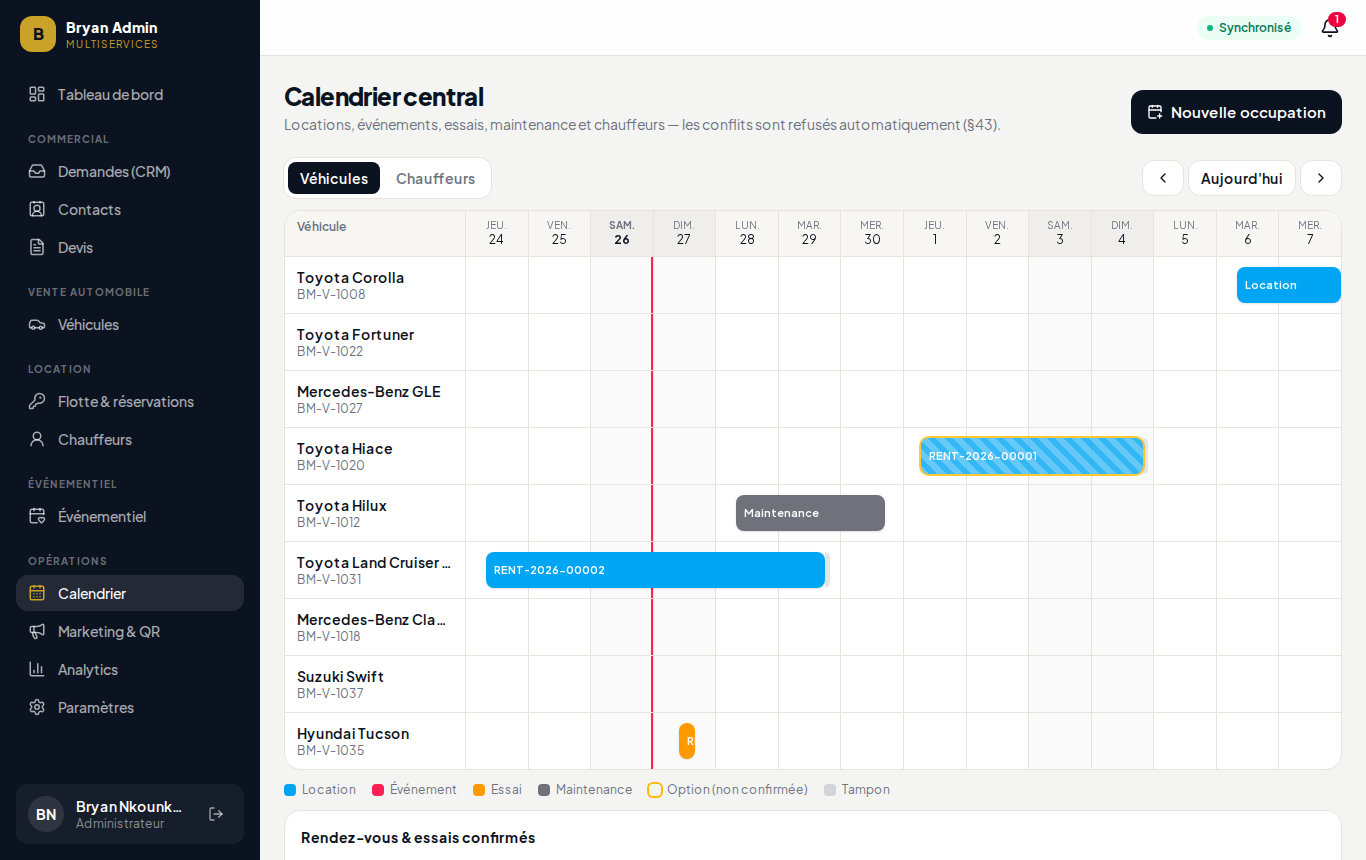
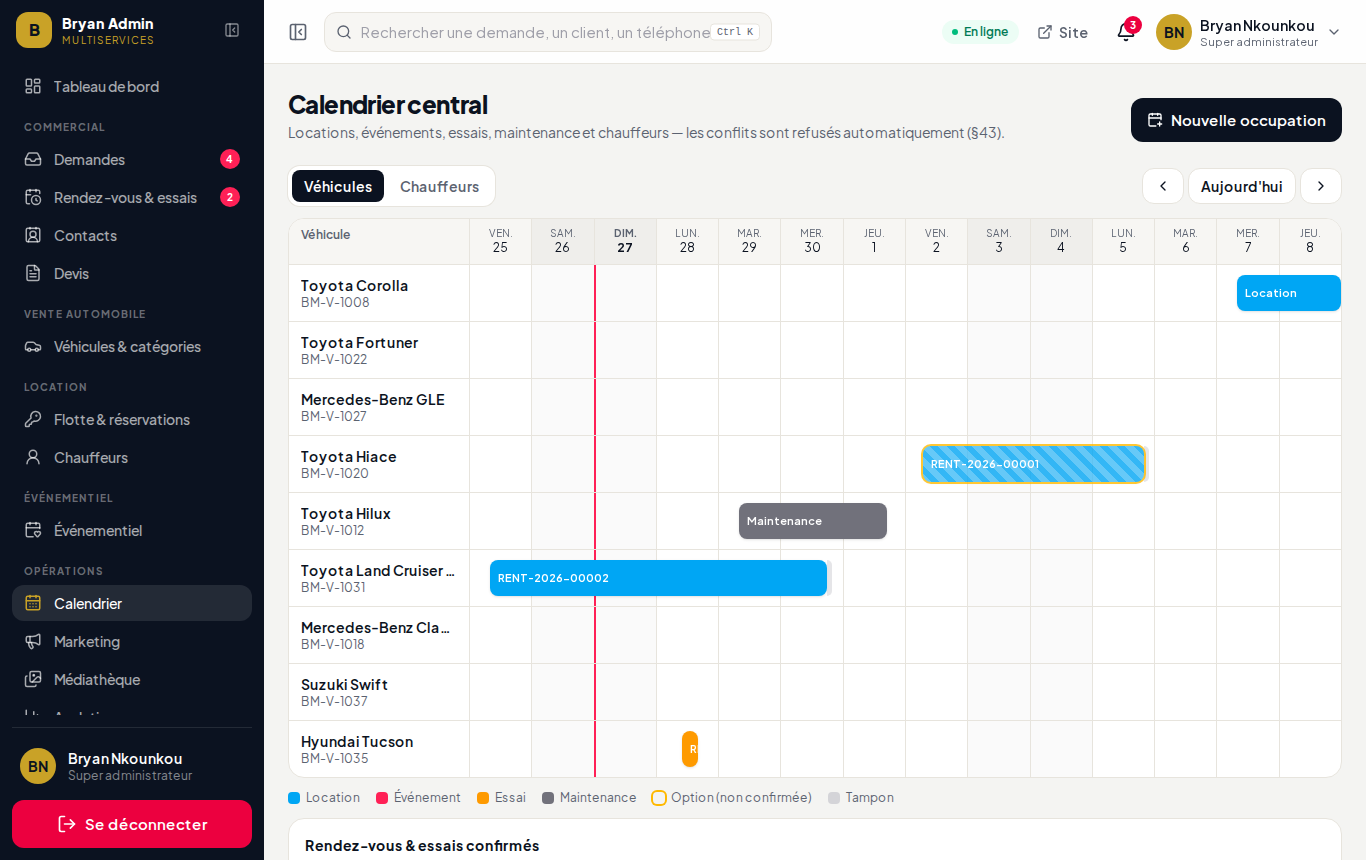
fix: badge de disponibilité location, RDV de démo, dates des tests selon le fuseau de Brazzaville, captures à jour
Claude-Session: https://claude.ai/code/session_012bgrZVfZnkb1jXsGv32C79

diff --git a/lib/db/mock-backend.ts b/lib/db/mock-backend.ts
@@ -139,7 +139,7 @@ export class BusinessError extends Error {
   }
 }
 
-const SEED_VERSION = "2";
+const SEED_VERSION = "3";
 const uid = () => crypto.randomUUID();
 const nowIso = () => new Date().toISOString();
 
@@ -306,6 +306,8 @@ async function seedCrm() {
     { type: "sale", contact: 9, minutesAgo: 60 * 150, vehicleId: "veh-pajero-2019", status: "completed", message: "Vente conclue." },
     { type: "trade_in", contact: 4, minutesAgo: 60 * 26 - 5, status: "to_contact", details: { brand: "Toyota", model: "RAV4", year: 2017, mileageKm: 112000, condition: "Bon état" }, message: "Je souhaite échanger mon véhicule." },
     { type: "event", contact: 9, minutesAgo: 60 * 200, status: "completed", message: "Anniversaire 50 ans." },
+    { type: "appointment", contact: 5, minutesAgo: 95, vehicleId: "veh-gle-2022", status: "new", details: { appointmentKind: "visit", preferredSlot: "Samedi matin" }, message: "Je souhaite voir le GLE avec mon épouse." },
+    { type: "test_drive", contact: 6, minutesAgo: 60 * 3, vehicleId: "veh-rav4-2022", status: "to_contact", details: { preferredSlot: "En semaine, l'après-midi" } },
   ];
 
   const assign: Partial<Record<RequestType, string>> = catalog.settings.defaultAssignees;
@@ -353,6 +355,10 @@ async function seedCrm() {
     { id: "ev-3", requestId: "r-13", eventTypeId: "et-anniversaire", title: "50 ans Prisca", eventDate: atDay(-10).slice(0, 10), city: "Pointe-Noire", guestsCount: 90, serviceIds: ["sv-deco", "sv-animation", "sv-sono"], createdAt: ago(60 * 200) },
   ]);
 
+  await mockDb.appointments.bulkAdd([
+    { id: uid(), requestId: "r-14", kind: "visit", status: "requested", vehicleId: "veh-gle-2022", preferredSlot: "Samedi matin", createdAt: ago(95) },
+    { id: uid(), requestId: "r-15", kind: "test_drive", status: "requested", vehicleId: "veh-rav4-2022", preferredSlot: "En semaine, l'après-midi", createdAt: ago(180) },
+  ]);
   await mockDb.appointments.add({ id: uid(), requestId: "r-4", kind: "test_drive", status: "confirmed", vehicleId: "veh-tucson-2023", preferredSlot: "Samedi matin", startsAt: atDay(1, 10), endsAt: atDay(1, 11), staffId: "u-auto", createdAt: ago(60 * 20) });
 
   // Occupations véhicules

diff --git a/e2e/admin.spec.ts b/e2e/admin.spec.ts
@@ -3,10 +3,10 @@ import { expect, test, type Page } from "@playwright/test";
 // Administration — écran d'ordinateur.
 test.use({ viewport: { width: 1366, height: 860 }, isMobile: false, hasTouch: false });
 
+/** Date locale (yyyy-mm-dd) dans le fuseau du navigateur de test (Africa/Brazzaville), à J+offset. */
 function day(offset: number) {
-  const d = new Date();
-  d.setDate(d.getDate() + offset);
-  return `${d.getFullYear()}-${String(d.getMonth() + 1).padStart(2, "0")}-${String(d.getDate()).padStart(2, "0")}`;
+  const d = new Date(Date.now() + offset * 86_400_000);
+  return new Intl.DateTimeFormat("en-CA", { timeZone: "Africa/Brazzaville", year: "numeric", month: "2-digit", day: "2-digit" }).format(d);
 }
 
 async function login(page: Page, user?: string) {
@@ -77,7 +77,7 @@ test("rendez-vous : un essai planifié bloque le véhicule, les conflits sont re
 
   await login(page);
   await page.goto("/admin/rendez-vous");
-  await page.getByRole("button", { name: "Planifier", exact: true }).first().click();
+  await page.locator("div.card > div").filter({ hasText: "Essai Client" }).getByRole("button", { name: "Planifier", exact: true }).click();
   const plan = page.getByRole("dialog");
   // Créneau déjà pris par l'essai de démonstration (demain 10h–11h) → refus
   await plan.getByLabel("Date et heure").fill(`${day(1)}T10:30`);

diff --git a/components/public/rental-search.tsx b/components/public/rental-search.tsx
@@ -112,8 +112,8 @@ export function RentalSearch({
             }}
           >
             <option value="">Indifférente</option>
-            <option value="courte">Courte (jours)</option>
-            <option value="longue">Longue (semaine, mois)</option>
+            <option value="courte">Courte</option>
+            <option value="longue">Longue</option>
           </select>
         </Field>
         <Button type="submit" variant="rent" size="md" className="w-full">
@@ -128,8 +128,7 @@ export function RentalSearch({
       <div className="grid gap-4 sm:grid-cols-2 lg:grid-cols-3">
         {results.map(({ vehicle, availability }) => (
           <div key={vehicle.id} className={cn("relative", availability === "unavailable" && "[&_a:first-child]:grayscale")}>
-            <RentalCard vehicle={vehicle} />
-            {availability && <AvailabilityBadge value={availability} className="absolute top-3 right-3 shadow" />}
+            <RentalCard vehicle={vehicle} badge={availability && <AvailabilityBadge value={availability} className="shadow" />} />
           </div>
         ))}
       </div>

diff --git a/components/public/vehicle-card.tsx b/components/public/vehicle-card.tsx
@@ -75,7 +75,7 @@ export function VehicleCard({ vehicle, href }: { vehicle: Vehicle; href?: string
   );
 }
 
-export function RentalCard({ vehicle }: { vehicle: Vehicle }) {
+export function RentalCard({ vehicle, badge }: { vehicle: Vehicle; badge?: React.ReactNode }) {
   const r = vehicle.rental!;
   return (
     <article className="group card relative flex flex-col overflow-hidden transition hover:-translate-y-0.5 hover:shadow-xl hover:shadow-black/5">
@@ -85,6 +85,7 @@ export function RentalCard({ vehicle }: { vehicle: Vehicle }) {
           {r.withDriver && <span className="rounded-full bg-rent px-2.5 py-1 text-[11px] font-bold text-white">AVEC CHAUFFEUR</span>}
           {r.selfDrive && <span className="rounded-full bg-white px-2.5 py-1 text-[11px] font-bold text-rent">SANS CHAUFFEUR</span>}
         </div>
+        {badge && <div className="absolute bottom-3 left-3">{badge}</div>}
       </Link>
       <div className="flex flex-1 flex-col p-4">
         <h3 className="font-bold">

diff --git a/e2e/parcours.spec.ts b/e2e/parcours.spec.ts
@@ -2,10 +2,10 @@ import { expect, test, type Page } from "@playwright/test";
 
 // Parcours clés (docs/06 — recette) sur mobile, avec les données de démonstration.
 
+/** Date locale (yyyy-mm-dd) dans le fuseau du navigateur de test (Africa/Brazzaville), à J+offset. */
 function day(offset: number) {
-  const d = new Date();
-  d.setDate(d.getDate() + offset);
-  return `${d.getFullYear()}-${String(d.getMonth() + 1).padStart(2, "0")}-${String(d.getDate()).padStart(2, "0")}`;
+  const d = new Date(Date.now() + offset * 86_400_000);
+  return new Intl.DateTimeFormat("en-CA", { timeZone: "Africa/Brazzaville", year: "numeric", month: "2-digit", day: "2-digit" }).format(d);
 }
 
 async function fillContact(page: Page, scope = page.locator("body")) {
